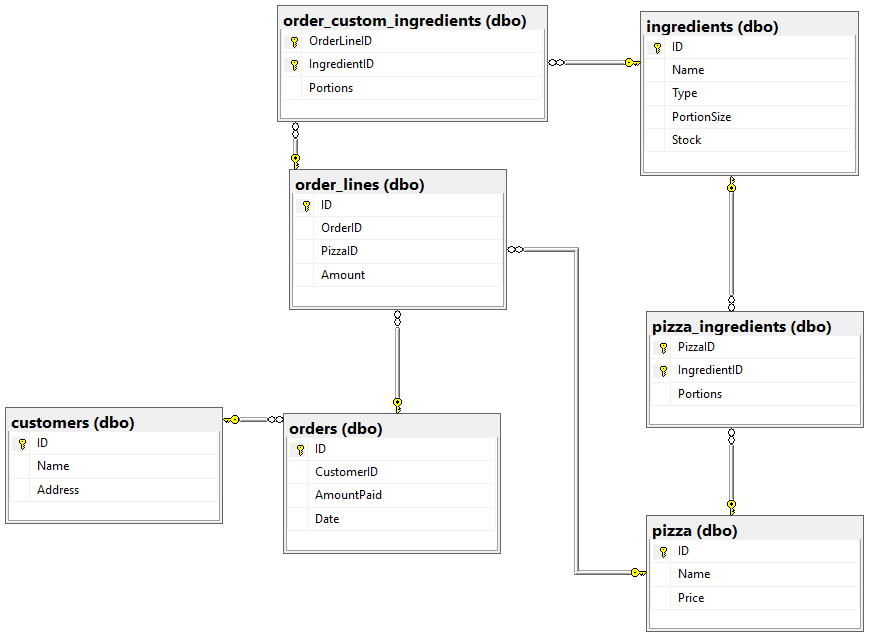
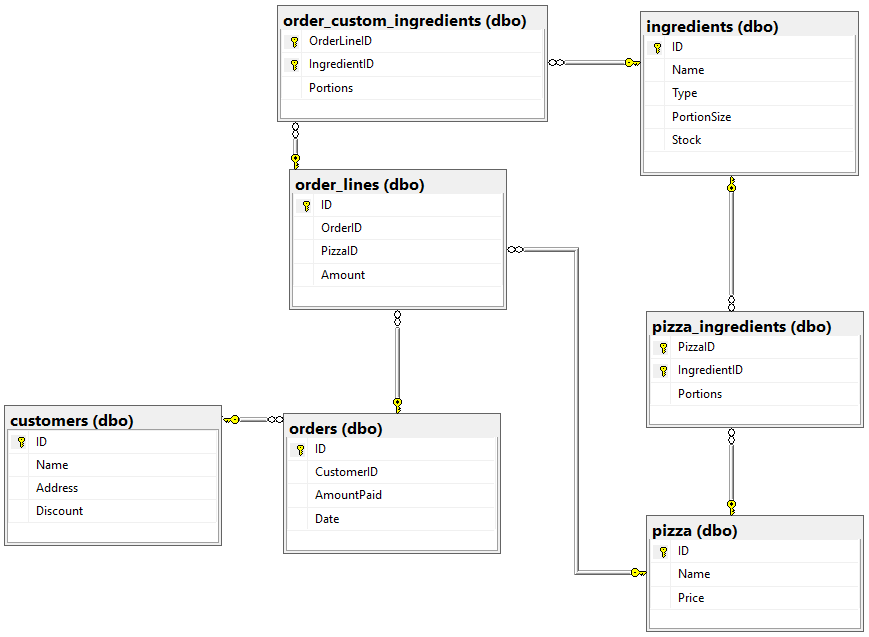
added discount option

Changed region(s): [[0.0, 0.6264, 0.2796, 0.865]]

diff --git a/index.html b/index.html
@@ -28,10 +28,11 @@
 				<div id="results" class="block"></div>
 			</div>
 			<div id="hacking" class="is-hidden">
+				<h2>Winalo pizzeria</h2>
 				<p>This is a link to your order page, try manipulating it to see what happens<br />
 					<a href="?orderid=3">Your order</a>
 				</p>
-				<div id="hackresults" class="block"></div>
+				<div id="hackresults" class="block mb-6"></div>
 				<p>hacking by injection <a href="https://xkcd.com/327/">https://xkcd.com/327/</a></p>
 			</div>
 			<div id="questions" class="is-hidden">
@@ -39,10 +40,13 @@
 				<p>Based on the pizza diagram below, please answer the following questions</p>
 				<ol>
 					<li>How many pizza's are there?</li>
-					<li>How many pizza's were ordered?</li>
+					<li>Which pizza ingredients are there?</li>
+					<li>How many customers are there?</li>
 					<li>Which customer bought the most pizza's</li>
 					<li>What ingredient is used the most</li>
 					<li>What ingerdients does the 'Mistery' pizza have?</li>
+					<li>Which customer gets the highes discount</li>
+					<li>How does a customer order a custom pizza? Show the custom pizza ordered.</li>
 
 				</ol>
 				<h3>Diagram</h3>
